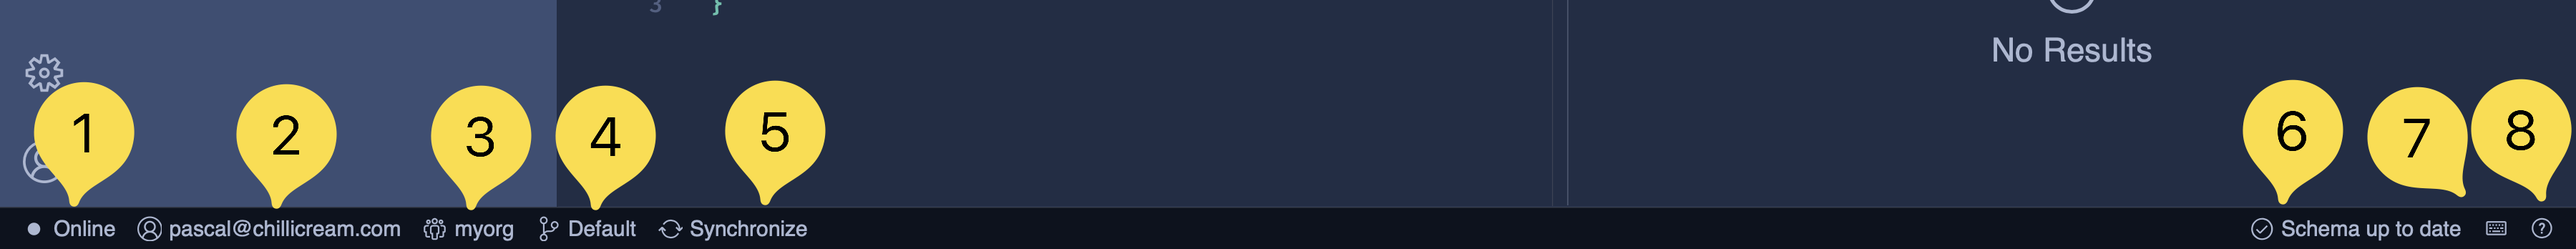
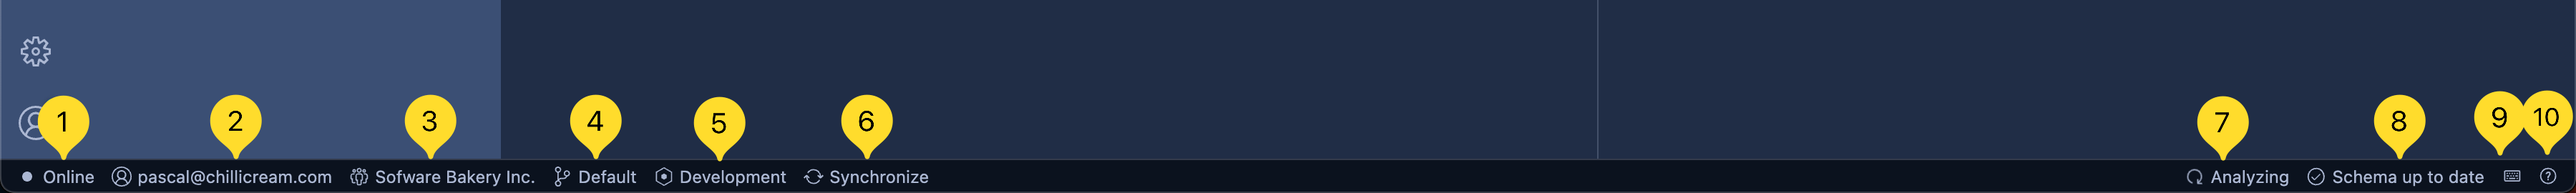
Adds documentation for environments

diff --git a/website/src/docs/bananacakepop/v2/environments.md b/website/src/docs/bananacakepop/v2/environments.md
@@ -1,0 +1,50 @@
+---
+title: Environments
+---
+
+Environment variable provide a mechanism for reusing specific values across multiple documents. These variables are defined as key-value pairs.
+
+Frequently used data, like URLs, tokens, and credentials, are commonly centerally managed as environment variable. 
+By doing so, these values can be referenced in your documents and changed in a single location for all you documents. You can also quickly switch between different values for different environments. 
+
+For instance, you might store your API key as an environment variable, allowing it to be used universally in all your documents. 
+If the API key changes, you can just update the environment variable without having to manually alter each document.
+
+You can define multiple environments for a single workspace corresponding to various contexts or project stages (e.g., development, testing, production). The environments can be switched in the status bar.
+
+When you have different project stages such as such as development (`https://serivce1.dev.company.com`), testing (`https://serivce1.test.company.com`), and production (`https://serivce1.prod.company.com`), you can for example set up the dynamic part of the url as a variable URL and incorporate it in all your urls (`https://serivce1.{{subdomain}}.company.com`). 
+By switching the active environment in Banana Cake Pop, the base URL will update automatically, streamlining your workflow. 
+Similarly, identifiers such as client ID and client secret can be defined as environment variable, which make it convnient to work with.
+
+# Creating Environments
+![Screenshot showing the environment](images/env-0.png)
+To create a new environment, follow these steps:
+1. Click on the environment icon on the left side of your screen. 
+2. Click the Plus icon to create a new environment.
+3. Enter a name for the environment.
+
+# Rename Environments
+![Screenshot showing the environment](images/env-1.png)
+You can rename by right-clicking on the environment and selecting the 'Rename' option. 
+
+# Specifiying Variables
+![Screenshot showing the environment](images/env-2.png)
+
+To open the environment variable editor, click on the environment you would like to edit.
+
+1. **Enabled**: If an environment variable is disabled, it will not be used in requests. This state is not synchronized with the server and is only local to the client. This way you can temporarily disable an environment variable without other users being affected.
+2. **Name**: The name of the environment variable. This name will be used to reference the variable in your documents. e.g. `{{ClientId}}`, `{{ClientSecret}}` `{{Subdomain}}`
+3. **Value**: The value of the environment variable. This value will be substituted in your documents when the environment variable is referenced.
+4. **Secret**: If an environment variable is marked as secret, it will be shown as a password field within the Banana Cake Pop interface. This feature is designed to help prevent accidental exposure of the value. Please note that marking a value as secret does not mean it is encrypted; it is simply visually obscured in the user interface.
+5. **Apply**: Clicking the 'Apply' button will save the environment variables. 
+
+
+# Switching Environments
+![Screenshot showing the environment](images/env-3.png)
+To switch environments, click on the environment name in the status bar. A dropdown menu will appear, listing all available environments.
+After selecting an environment, the environment variables of the selected environment will be active and applied to all documents.
+
+# Using Variables 
+![Screenshot showing the environment](images/env-4.png)
+Once you have defined an environment variable, you can reference it in your documents by using the following syntax: `{{variable_name}}`.
+Environment variable can be employed in a variety of places within Banana Cake Pop, such as URLs, GraphQL Variables, and Connection Settings. When a request is executed, any referenced environment variable will be substituted with their respective values.

diff --git a/website/src/docs/bananacakepop/v2/explore-the-ui/status-bar.md b/website/src/docs/bananacakepop/v2/explore-the-ui/status-bar.md
@@ -16,12 +16,15 @@ The status bar is a visual component located at the bottom of the application in
 4. **Selected Workspace:** This section shows the currently selected workspace within the chosen organization. By clicking here, you can easily switch to a different workspace, providing seamless navigation between different project environments.
 ![Status Bar](./images/status-5.png)
 
-5. **Workspace Synchronization Indicator:** The indicator in this section informs you whether the workspace is currently synchronizing. If synchronization is required or you want to manually trigger the process, you can click here to initiate synchronization.
+5. **Environment:** This section displays the name of the currently selected environment. Clicking on this section allows you to switch to a different environment or create a new one.
+![Status Bar](./images/status-6.png)
 
-6. **Schema Up-to-Date:** This section provides an indicator to show whether the schema, which defines the structure and organization of data within the application, is up to date.
+6. **Workspace Synchronization Indicator:** The indicator in this section informs you whether the workspace is currently synchronizing. If synchronization is required or you want to manually trigger the process, you can click here to initiate synchronization.
 
-7. **Keyboard Shortcuts Overlay:** By clicking on this section, you can display an overlay that shows a list of available keyboard shortcuts for efficient navigation and interaction with the application.
+7. **Schema Up-to-Date:** This section provides an indicator to show whether the schema, which defines the structure and organization of data within the application, is up to date.
+
+8. **Keyboard Shortcuts Overlay:** By clicking on this section, you can display an overlay that shows a list of available keyboard shortcuts for efficient navigation and interaction with the application.
 ![Status Bar](./images/status-3.png)
 
-8. **Version Information:** This section displays relevant information about the version of the application you are currently using. It helps you identify the installed version and keep track of updates or changes that may be available.
+9. **Version Information:** This section displays relevant information about the version of the application you are currently using. It helps you identify the installed version and keep track of updates or changes that may be available.
 ![Status Bar](./images/status-2.png)
